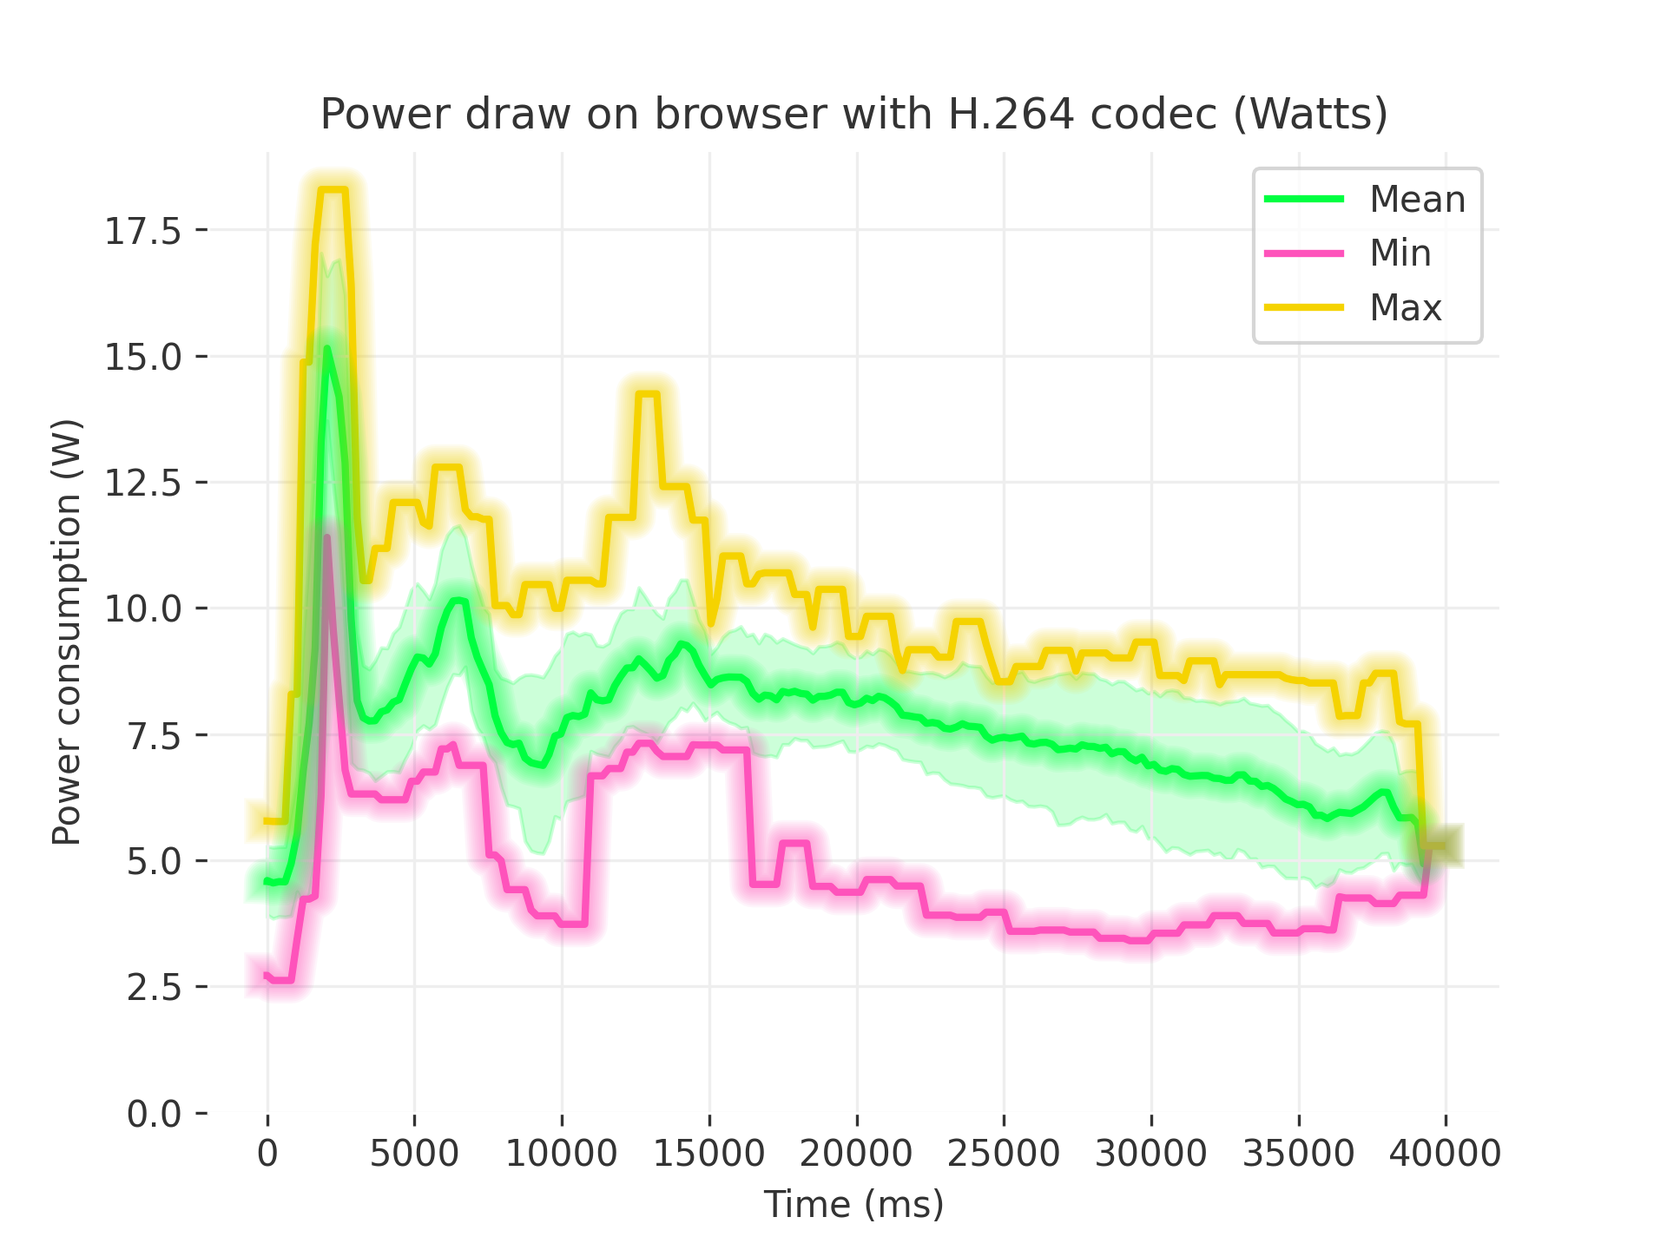
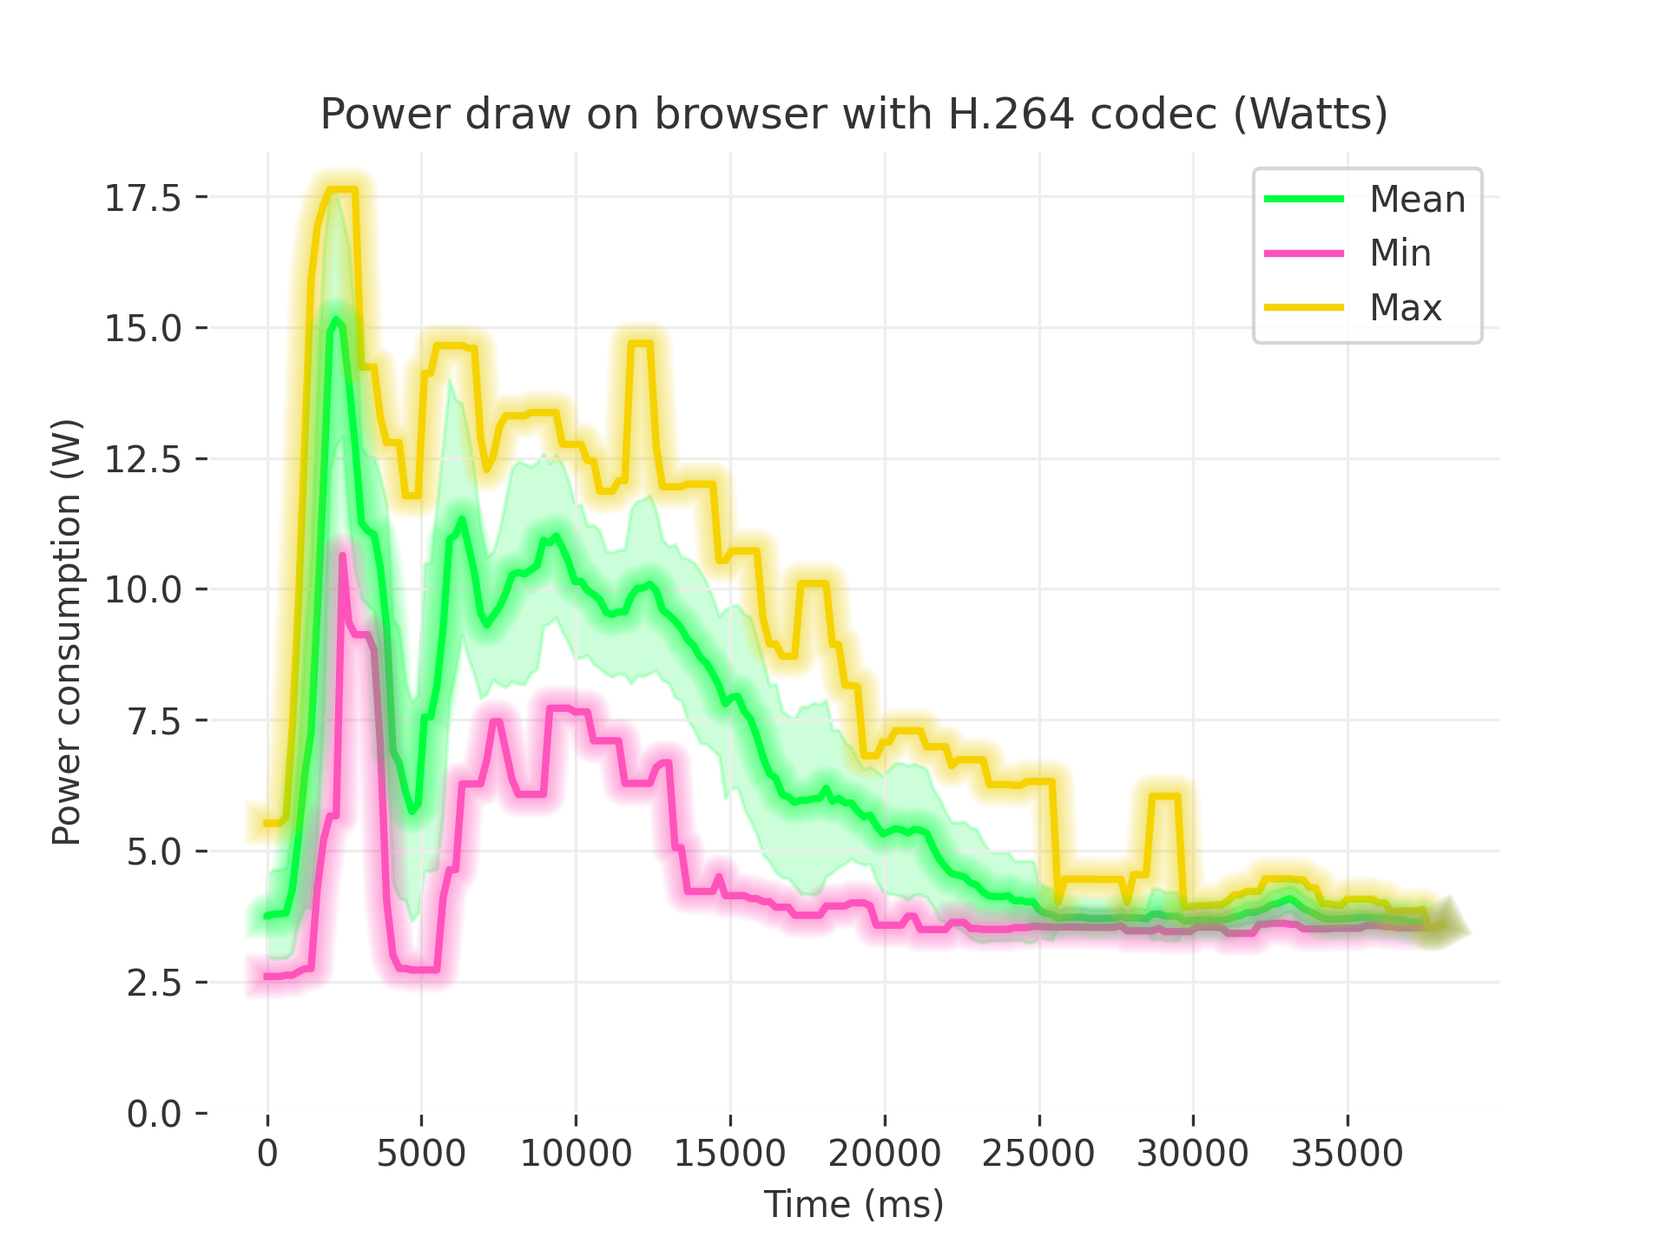
Group 14 correct final version (#117)
* Initial report version

* Add correct final version

diff --git a/2025/p1_measuring_software/g14_jellyfin_browser_native.md b/2025/p1_measuring_software/g14_jellyfin_browser_native.md
@@ -18,7 +18,7 @@ All code used for these experiments can be found [here](https://github.com/Jeroe
 
 ### Program under test
 
-We will be comparing the energy usage of [Jellyfin](https://jellyfin.org/), a free open-source media server that is used for managing and streaming a media library. In this experiment, we compare the energy consumption of streaming a small piece of a movie using the web browser interface versus the Jellyfin native application. By measuring the energy consumption of these two approaches, we aim to identify which method is more energy-efficient and under which circumstances.
+We will be comparing the energy usage of [Jellyfin](https://jellyfin.org/), a free open-source media server that is used for managing and streaming a media library. In this experiment, we compare the energy consumption of streaming a small piece of a movie using the web browser interface versus the Jellyfin client native application. By measuring the energy consumption of these two approaches, we aim to identify which method is more energy-efficient and under which circumstances.
 
 ### Video codecs
 
@@ -34,9 +34,9 @@ The media player used for video and audio playback differes between the browser 
 
 ### Experimental Setup
 
-To compare the browser version to the native app we created an automatic testing script. We chose to use the Google Chrome browser and downloaded the most recent version of the MacOS Jellyfin application. The task consists of logging in to the jellyfin server, searching for a video and watching for a predefined amount of time before closing either the browser or app. Whichever we were testing.
+To compare the browser version to the native app we created an automatic testing script. We chose to use the Google Chrome browser and downloaded the most recent version of the MacOS Jellyfin application (v1.11.1) and Jellyfin server v10.10.3. The task consists of logging in to the jellyfin server, searching for a video and watching for a predefined amount of time before closing either the browser or app. Whichever we were testing.
 
-For these experiments we had the automated script watch 30 seconds of video. To also include different video codecs we ran experiments on the video '2 Fast 2 Furious' which has an H.264 codec, and on the video 'Moana 2' which has an AV1 codec. For these experiments the same browser was used, and the same Jellyfin application was used.
+For these experiments we had the automated script watch 30 seconds of video. To also include different video codecs we ran experiments on the movie '2 Fast 2 Furious' which with an H.264 codec, and on the movie 'Moana 2' with an AV1 codec. For these experiments the same browser was used, and the same Jellyfin application was used.
 
 ### Hardware setup
 
@@ -78,7 +78,9 @@ We used the energy consumption method over the average power draw since we inclu
 
 ![h264 browser](../img/p1_measuring_software/g14_jellyfin_browser_native/h264_browser_watts.png)
 
-![h264 dist](../img/p1_measuring_software/g14_jellyfin_browser_native/h264_distribution.png)
+![av1 app](../img/p1_measuring_software/g14_jellyfin_browser_native/av1_app_watts.png)
+
+![av1 browser](../img/p1_measuring_software/g14_jellyfin_browser_native/av1_browser_watts.png)
 
 ### Power Draw on the App
 
@@ -87,12 +89,14 @@ Plot description:
 - X-axis (Time in milliseconds).
 - Y-axis (Power in watts): the total system power draw.
 - Lines:
+
   - Green (Mean): the average power across multiple measurements at each time slice.
   - Green area: standard deviation of the mean power.
   - Pink (Min): the lowest power measurement observed at each time step.
   - Yellow (Max): the highest power measurement observed at each time step.
-- General Shape: there is a pronounced spike in the first ~5s, followed by a downward trend, and eventually settling into a moderately stable range of 5 to 8 watts for the mean line.
-  If we go more in more depth, we can divide the graphs in sections. We can observe that the initial spike to nearly 18W is common at the start of the application. The power draw then drops as the application finishes starting at ~7 seconds. Power draw then peaks again while searching for and starting the playback of the movie between ~7 and ~15 seconds as the application is making requests, loading thumbnails, and playback starts performing video initialization, buffering, and possibly hardware-acceleration handshakes. The second section between ~7 to ~15 seconds, the mean drops from ~10W to ~6-8W. The difference between min and max indicates short bursts of higher CPU/GPU activity, we could see this section as the settling section. The third section ~15s onward, after the first peak, the power consumption drifts with less dramatic peaks. The mean line is around 6-7W, and the min line dips to around 2-3W at times, suggesting idle or partial idle states when frames are easily decoded, we could see this section as the stable section.
+
+General Shape: there is a pronounced spike in the first ~7s, after which the power draw stabilises, and eventually settling into a moderately stable range.
+If we go more in more depth, we can divide the graphs in sections. In the startup phase we can observe that the initial spike to nearly 18W is common at the start of the application. The power draw then drops as the application finishes starting at ~5 seconds. In the second phase, power draw then peaks again while searching for and starting the playback of the movie between ~5 and ~15 seconds as the application is making requests, loading thumbnails, and playback starts performing video initialization, buffering, and possibly hardware-acceleration handshakes. The difference between min and max indicates short bursts of higher CPU/GPU activity, we could see this section as the settling section. The third section from ~15s onward, after the first peak, the power consumption drifts with less dramatic peaks.
 
 ### Power Draw on the Web Browser
 
@@ -100,11 +104,19 @@ Plot description:
 
 - Similar Layout: same axes for time (ms) and power (W).
 - Lines: same as the previous plot.
-- General Shape: it also features a high spike initially, followed by a decline, with a somewhat smoother or narrower range than the App after the first few seconds.
-  In this graph we can also divide it into different sections. The first section from 0 to ~5s, the peak reaches almost 18W again, for the same reasons (startup) as with the native app. The second section from ~5-20s, the max line can reach 10-12W, while the min line dips around 3-4W. The mean line stabilizes at around 6-7W, this section could be seen as mid-range fluctuations during navigation of the interface. The last section from ~20 seconds onwards, there is a mild downward trend while playing the movie. The mean goes from ~8W at the start of playback down to around ~6W at the end, but being otherwise stable without peaks.
-  Difference between the App and the Browser energy consumption: they both have similar behavior but the Browser may have fewer extreme downward dips than the App, this could indicate a steadier baseline overhead. On the other hand, it sometimes exhibits short bursts of activity that keep the max line slightly elevated.
+
+General Shape: it also features a high spike initially, followed by a decline, however this happens later than with the native app. Especially the startup phase and the searching phase in the webbrowser uses a lot more energy compared to the native app.
+In this graph we can also divide it into different sections. The first section from 0 to ~5s, the peak reaches almost 18W again, for the same reasons (startup) as with the native app. The second section from ~5-20s, during the searching for the movie, is also way more power intensive compare to the native app. The last section from ~20 seconds onwards, there is a mild downward trend while playing the movie. The mean goes from ~9-11W at the start of playback down to around ~3-5W at the end depending on the codec.
+
+### Power draw comparison between browser and app
+
+Both the browser and app have similar behavior, but the browser uses a lot more energy, especially during the startup and searching phase. We also notice that the native app quickly settles into a stable power draw once streaming has started, while the browser takes longer to reach it's most efficient point. This may be due to the different codecs used by mpv and Google Chrome, and could also be related to the V8 engine from Chrome optimizing functions more and more if they are frequently used.
 
 ### Energy Consumption Distribution (Violin + Box Plot)
+
+![h264 dist](../img/p1_measuring_software/g14_jellyfin_browser_native/h264_distribution.png)
+
+![av1 dist](../img/p1_measuring_software/g14_jellyfin_browser_native/av1_distribution.png)
 
 Plot description:
 
@@ -113,38 +125,57 @@ Plot description:
 - Violin Plots: Show the overall distribution (thick areas indicate more frequent values)
 - Box Plots: Show the median line, interquartile range, and possible outliers.
 
-The App distribution spans from roughly 220J to 340J in the extremes. The box (middle 50% of data) centers around 260-280J, with a median near to 270J. Outliers indicate some runs, where the total energy was lower or higher than the bulk measurement.
+Three observations are clear from the distributions:
 
-The Browser distribution ranges similarly from ~220 to ~340J, but the distribution appears slightly shifted upward, meaning that the box is a bit higher. The median is around 280J, with the top of the box approximately around 300J. The outliers on both ends suggest variability in the measurement environment or usage pattern.
+- The native app is a lot more consistent in the total energy used compared to the webbrowser. Comparing the spread of the two distributions clearly indicates that the webbrowser may use very different amounts of energy to perform the test.
+- The native app uses significantly less energy compared to the webbrowser. As seen in the graphs above, this is both caused by the startup and search phases using more energy in the browser. In addition, the energy usage while streaming takes longer to settle than witht the native app, and even then is still higher in the browser.
+- H.264 is more efficient than AV1 when it comes to energy usage. This is to be expected and in line with what was mentioned in the introduction. The AV1 codec is designed to use less bandwidth/storage than H.264. This does however result in it requiring more processing power to encode and decode, which is confirmed by our experiment.
 
-Even though both the App and the Browser are quite similar, the Browser's median and upper quartile appear slightly higher, this suggests that the overall energy usage can be marginally greater for the Browser across these tests.
+### Statistical significance
+
+To test whether the collected data resembles a normal distribution, we use the Shapiro-Wilk test. From the table below, we can conclude that all results resemble a normal distribution (p-value threshold is 0.05).
+
+| Run type      | Statistic | p-value |
+| ------------- | --------- | ------- |
+| App H.264     | 0.97      | 0.76    |
+| Browser H.264 | 0.97      | 0.48    |
+| App AV1       | 0.99      | 0.98    |
+| Browser AV1   | 0.96      | 0.31    |
+
+To test the significance of the results, we used Welch's t-test. From the table below, we can conclude that the results are statistically significant (p-value thereshold 0.05).
+
+| Comparison            | Statistic | p-value |
+| --------------------- | --------- | ------- |
+| App vs. Browser H.264 | 10.1      | 1.6e-11 |
+| App vs. Browser AV1   | 7.35      | 2.1e-08 |
 
 ## Implications of the Results
 
 - Start-Up Cost vs. Steady State: Both the App and the Browser show significant spikes in power usage at the beginning of the test. This penalty can be attributed to video buffering, decoding initialization and other overhead tasks. After a few seconds, power usage declines and settles into a more stable range. This represents normal playback once the buffering is complete and the decoder is running smoothly. The initial burst could be minimized, by optimizing buffering and preloading. If the app or browser could predict how much data was going to be needed for the next few seconds of playback, it might fetch it more efficiently, hence reducing the size or duration of the initial spike. Similarly, if the initial part of the video was delivered at a lower bitrate, just for a few seconds, it could shorten the time spent in high CPU/GPU usage while decoding large frames. Furthermore, making sure that the GPU driver or integrated graphics driver is up to date can help ensure the best hardware decode path is used. Additionally, only initializing components of the player like advanced UI elements, could help the system not to overload the system at once.
-- Total energy perspective: The browser has slightly higher total energy consumption compared to the app. Even if the browser doesn't always hit the extreme peaks, the overall consumption is higher. This suggests the browser might keep certain components active or run at a higher baseline power state. On the other hand, the app might have to do more work upfront, but then idle more efficiently, resulting in a lower median total energy usage. We think that the total energy usage could be minimized by doing the following: with respect to the browser, it could help to use an incognito window for fewer add-ons and to have a minimal environment. For app specific purposes, by reducing data processing once the playback is stable could help minimize the total energy usage. On top of that, modern GPUs can also reduce clock speeds when load is low, so dynamic clocking could be crucial. In addition, scaling down CPU frequency when full power is not needed could also help, even though this is normally done automatically.
+- Total energy perspective: The browser has significantly higher total energy consumption compared to the app. Because of the higher energy usage in the first phases and slower settling of energy usage, the overall consumption is higher. This suggests the browser is performing more tasks than the native app, might keep certain components active or run at a higher baseline power state. The app might have less work to do upfront, and then settles more efficiently, resulting in a lower median total energy usage. We think that the total energy usage could be minimized by doing the following: with respect to the browser, it could help to use an incognito window for fewer add-ons and to have a minimal environment. For app specific purposes, reducing data processing once the playback is stable could help minimize the total energy usage. On top of that, modern GPUs can also reduce clock speeds when load is low, so dynamic clocking could be crucial. In addition, scaling down CPU frequency when full power is not needed could also help, even though this is normally done automatically.
 - Practical implications:
-  - Battery impact: On laptops, tablets, or phones, every extra joules consumed every few seconds can shorten playback time. If the browser constantly run at a higher energy consumption baseline, the battery will drain quicker over a long playback.
-  - Performance tuning: if we are aiming to minimize system power, we need to identify and remover overhead, this could be done by using profiling tools like Intel Power Gadget (Mac/Windows) or powertop (Linux) or by optimizing code, for the app we could ensure efficient video decode libraries, and for the browser we could limit background pages, or unnecessary DOM updates.
+  - Battery impact: On laptops, tablets, or phones, every extra watt of power draw can shorten playback time. If the browser constantly runs at a higher energy consumption baseline, the battery will drain quicker over a long playback.
+  - Performance tuning: if we are aiming to minimize system power, we need to identify and remove overhead. This could be done by using profiling tools like Intel Power Gadget (Mac/Windows) or powertop (Linux) or by optimizing code. For the app we could ensure efficient video decode libraries, and for the browser we could limit background pages, or unnecessary DOM updates.
   - User experience: the initial spikes can generate heat and noise (due to the fans trying to cool down the device). This could be fixed by making a proper thermal management and by watching the video in lower resolution.
 
 ## Limitations
 
 While this study provides valuable insights into the energy consumption differences between the Jellyfin web browser interface and the native application, several limitations must be acknowledged:
 
-- Codec Testing: We tested only one video codec, so our results may not apply to other codecs that use hardware differently.
 - Operating System: We tested exclusively on macOS, and results will likely vary on other operating systems due to differences in power management, hardware optimization, and system architecture.
 - Caching: We didn’t account for caching in the native app, which might store more data than the browser and affect power use over time.
 - Hardware: We tested on just one device, so the results might be different on others with different CPU, GPU, and power management capabilities.
 - Network Influence: Due to limitations of the machine used for testing, we were not able to use a wired network connection, which could have influenced energy measurements.
 - Duration: We measured energy use for only around 40 seconds, so we might have missed longer-term trends like power-saving features or background processes (such as software updates or notifications). These factors can affect energy consumption, but since our experiment was short, their impact over time remains unknown.
 
-Despite these limitations, our study provides a useful baseline for comparing the energy efficiency of Jellyfin’s web and native app streaming experiences. Future work could expand on these findings by testing multiple codecs, operating systems, and hardware configurations and so on.
+Despite these limitations, our study provides a useful baseline for comparing the energy efficiency of Jellyfin’s web and native app streaming experiences. Future work could expand on these findings by testing multiple operating systems, hardware configurations and so on.
 
 ## Conclusion
 
-Our study compared the energy consumption of streaming Fast & Furious through the Jellyfin web browser interface and the Jellyfin native app. The results shows that both methods follow a similar power usage pattern, with an initial spike (~18W) followed by stabilization. However, the browser tends to have a slightly higher median energy consumption and fewer extreme dips than the app, indicating a steadier baseline. At the same time, the browser occasionally shows short bursts of activity that keep its peak power levels slightly elevated.
+Our study compared the energy consumption of streaming videos through the Jellyfin web browser interface and the Jellyfin native app. The results shows that both methods follow a similar power usage pattern, with an initial spike (~18W) followed by stabilization. However, the browser tends to have a significantly higher median energy consumption and more peaks than the app, indicating a less steady baseline. At the same time, the browser occasionally shows short bursts of activity that keep its peak power levels elevated. We also conclude from the violin plots that browser energy usage is unstable. As we see normal distributed spread of energy usage compared to the app version, for which the energy usage is very stable.
 
-While these findings provide insight into the energy efficiency of both approaches, our study had some limitations. We only tested one video codec, used a single hardware setup, and measured energy consumption over a short period. As a result, the findings may not fully apply to other conditions.
+From our comparison of AV1 against H264 we also conclude that AV1 uses more energy, which is to be expected since it is a computationally heavier algorithm. This comparison is consistent across the browser version and the native version. We also conclude that the native version is consistently better when considering energy usage than the browser version.
 
-Overall, this experiment serves as a starting point for understanding the impact of energy consumption across different approachesFuture research could explore different codecs, devices, operating systems, and longer playback durations to get a more complete picture of energy efficiency in media streaming applications.
+While these findings provide insight into the energy efficiency of both approaches, our study had some limitations which should be kept in mind. As a result, the findings may not fully apply to all other scenarios. But, given these limitations and this scenario we can conclude that a user should use the native version over the browser version of Jellyfin.
+
+As future research these experiments should be ran for more codecs, devices, operating systems and a onger playback duration could also be considered to get a more complete picture of energy efficiency in native applications versus browser applications.
